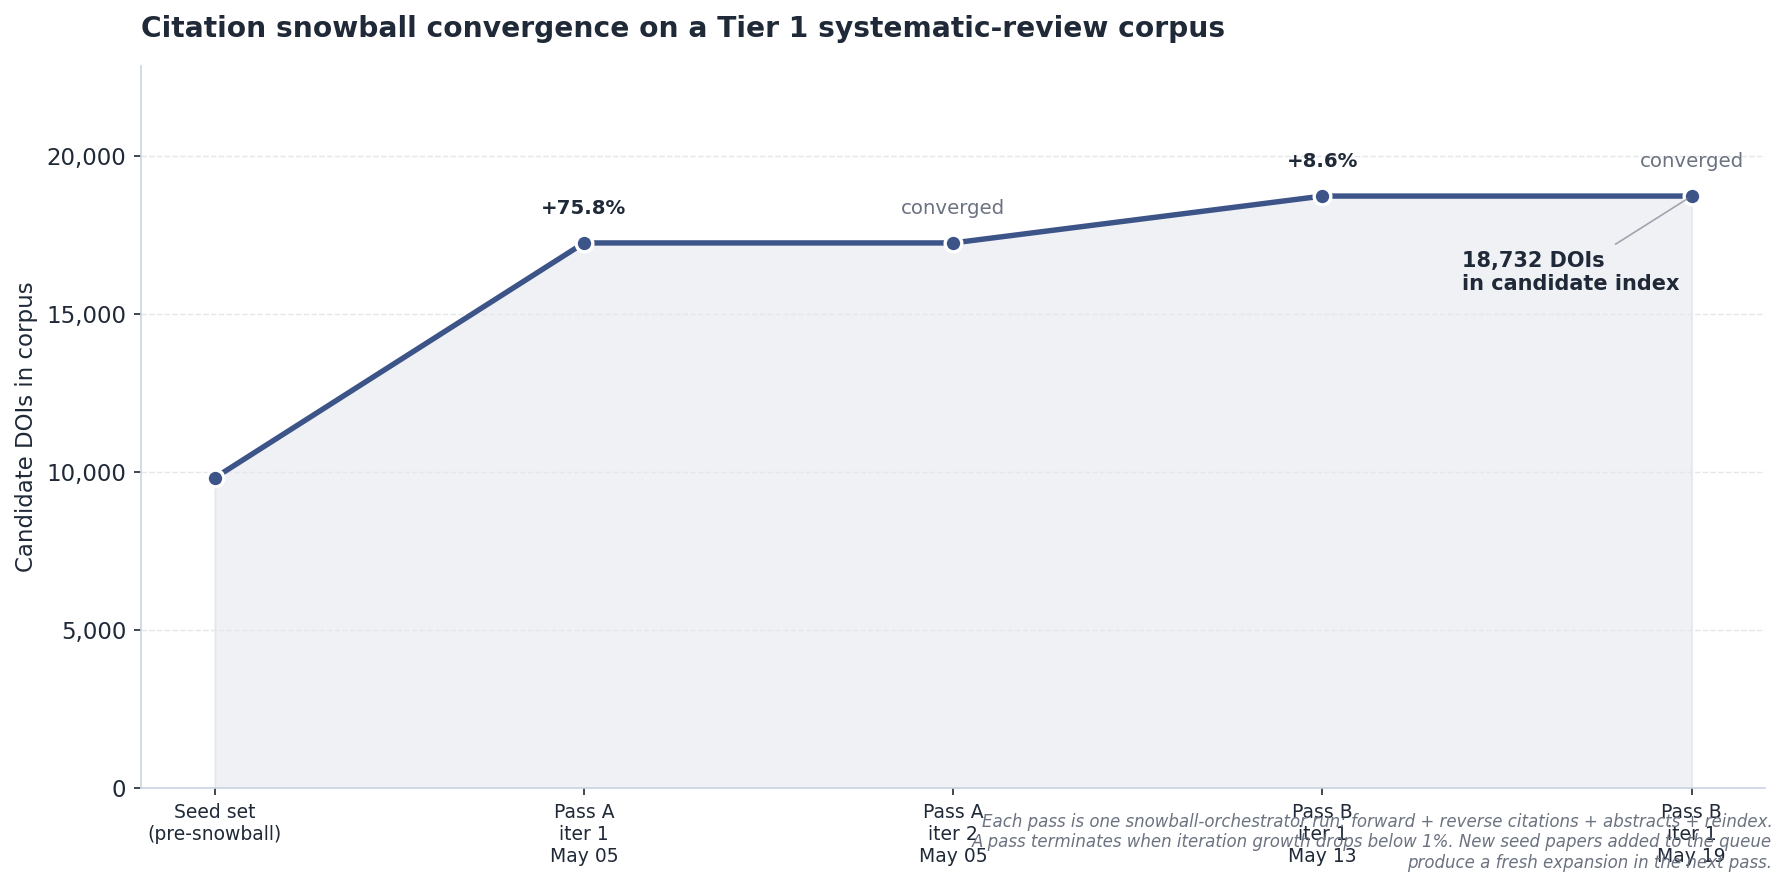
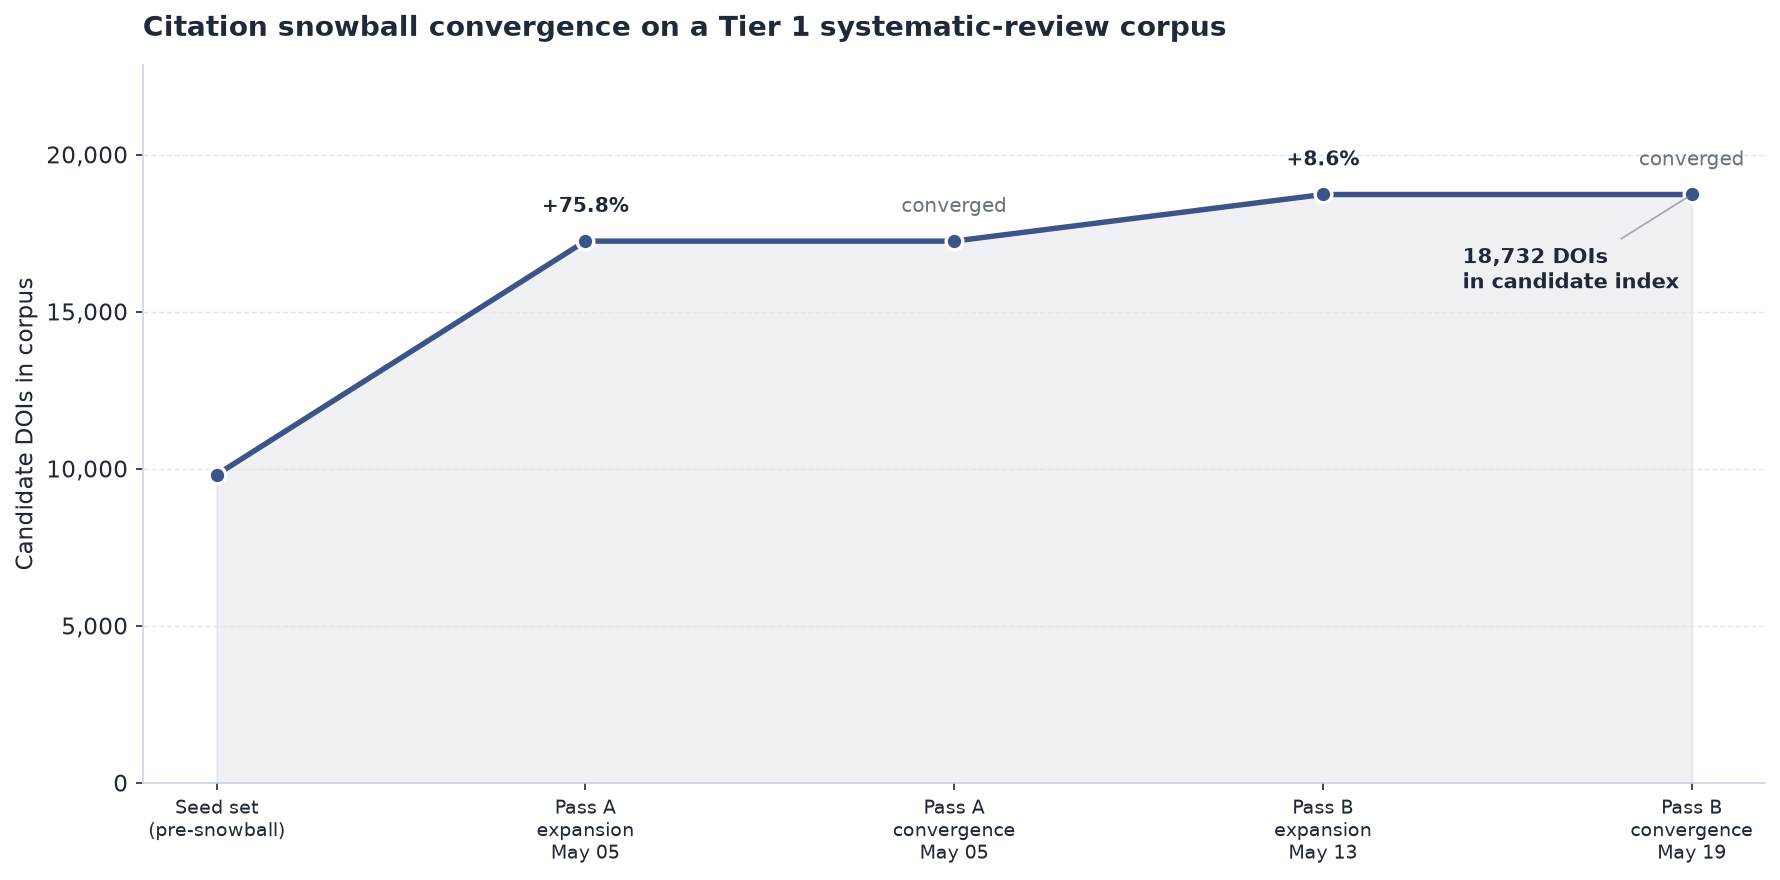
fix(img): lit-pipeline convergence hero without overlapping text
The in-figure footnote was pinned at fig (0.99, 0.02), directly over the
three-line x tick labels; it is removed (the case-study caption already
carries that sentence). Tick labels now name each point's role (expansion /
convergence) instead of the log's raw iter, which printed "Pass B iter 1"
twice because the 05-19 row is a fresh run's iter 1 at 0% growth.
Re-rendered from _references/convergence_log.csv: 109 KB -> 87 KB.

diff --git a/scripts/make_convergence_hero.py b/scripts/make_convergence_hero.py
@@ -58,10 +58,14 @@ def getpaid_trajectory(df: pd.DataFrame) -> pd.DataFrame:
              "n": int(kept.iloc[0]["n_before"]), "growth_pct": 0.0,
              "label": "Seed set\n(pre-snowball)"}]
     pass_letters = ["A", "A", "B", "B"]
+    # Label each point by its role, not the log's raw `iter`: the 05-19 row is
+    # a fresh run's iter 1 that found 0% growth, so raw labels printed
+    # "Pass B iter 1" twice (fixed 2026-10-15).
+    roles = ["expansion", "convergence", "expansion", "convergence"]
     for i, r in kept.iterrows():
         rows.append({"step": i + 1, "date": r["date"], "iter": int(r["iter"]),
                      "n": int(r["n_after"]), "growth_pct": float(r["growth_pct"]),
-                     "label": f"Pass {pass_letters[i]}\niter {int(r['iter'])}\n{r['date'].strftime('%b %d')}"})
+                     "label": f"Pass {pass_letters[i]}\n{roles[i]}\n{r['date'].strftime('%b %d')}"})
     return pd.DataFrame(rows)
 
 
@@ -123,12 +127,9 @@ def render(traj: pd.DataFrame, out_path: Path):
     ax.set_ylim(0, max(y) * 1.22)
     ax.yaxis.set_major_formatter(plt.FuncFormatter(lambda v, _: f"{int(v):,}"))
 
-    # Footer caption
-    fig.text(0.99, 0.02,
-             "Each pass is one snowball-orchestrator run: forward + reverse citations + abstracts + reindex.\n"
-             "A pass terminates when iteration growth drops below 1%. New seed papers added to the queue\n"
-             "produce a fresh expansion in the next pass.",
-             ha="right", va="bottom", fontsize=8, color=MUTED, style="italic")
+    # No in-figure footer: it was pinned at fig (0.99, 0.02), right on top of the
+    # three-line x tick labels, and the case-study figure caption already
+    # carries the same sentence (removed 2026-10-15).
 
     fig.tight_layout()
     out_path.parent.mkdir(parents=True, exist_ok=True)
